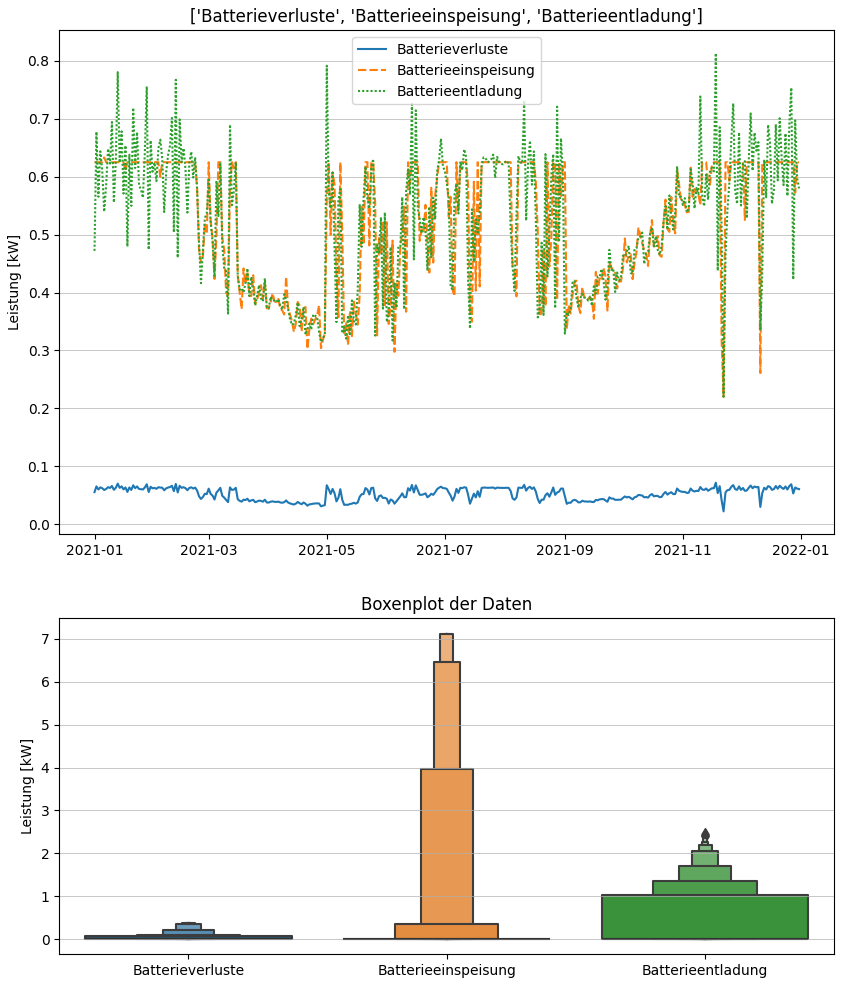
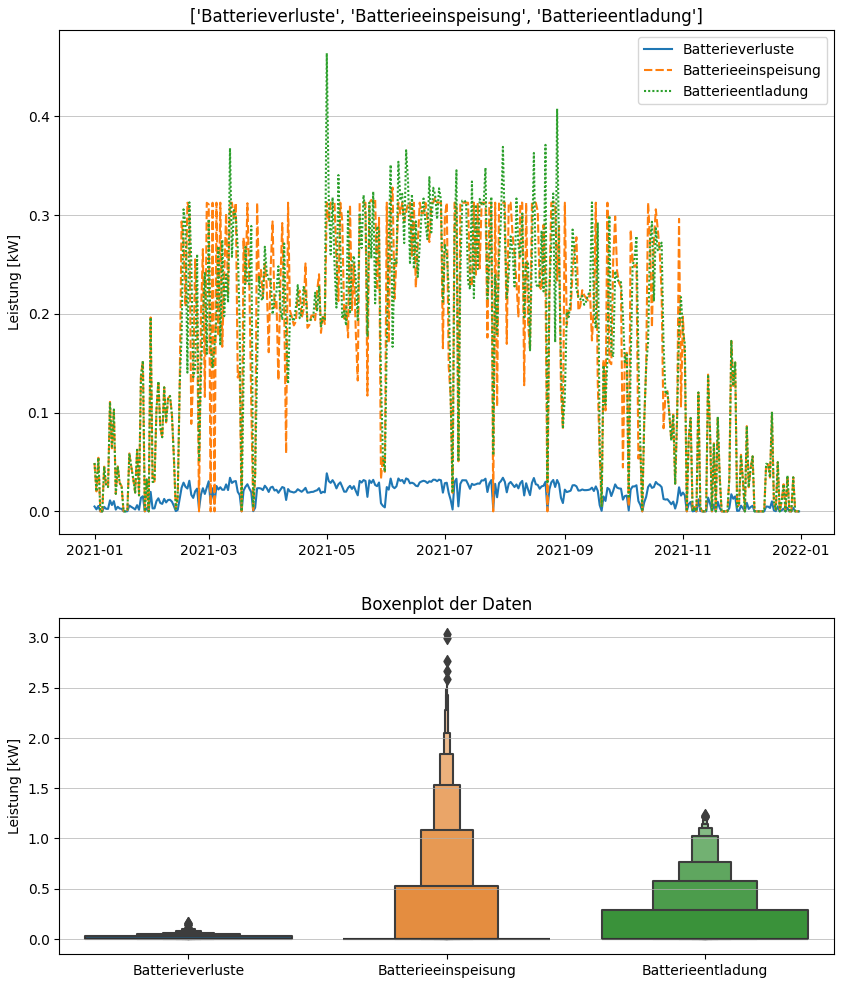
Update

diff --git a/EIMS_Opt/EIMS_Opt.py b/EIMS_Opt/EIMS_Opt.py
@@ -342,7 +342,12 @@ class Model():
 def main():
     #this should work
     model = Model()
-    result = model.Simulate(var_BGF=200, var_PV_kWP = 100, var_battery_kWh = 15, verbose = False, plotting = True)
+    #result = model.Simulate(var_BGF=200, var_PV_kWP = 0, var_battery_kWh = 0, verbose = False, plotting = True)
+    #result = model.Simulate(var_BGF=200, var_PV_kWP = 10, var_battery_kWh = 0, verbose = False, plotting = True)
+    #result = model.Simulate(var_BGF=200, var_PV_kWP = 0, var_battery_kWh = 10, verbose = False, plotting = True)
+    result = model.Simulate(var_BGF=100, var_PV_kWP = 5, var_battery_kWh = 7.5, verbose = False, plotting = True)
+    
+
     print(f"Gesamtkosten: {result['Gesamtkosten']:.2f} €")
     print(f"Investmentkosten: {result['Investmentkosten']:.2f} €")
     print(f"Operationskosten: {result['Operationskosten']:.2f} €")
@@ -350,6 +355,7 @@ def main():
     print(f"Primärenergie: {result['Primärenergie']:.2f} kWh/m²a")
     print(f"Netzeinspeisung: {result['Netzeinspeisung']:.2f} kWh")
     print(f"Netzbezug: {result['Netzbezug']:.2f} kWh")
+    
 
 if __name__ == "__main__":  # https://www.youtube.com/watch?v=sugvnHA7ElY
     main() 
